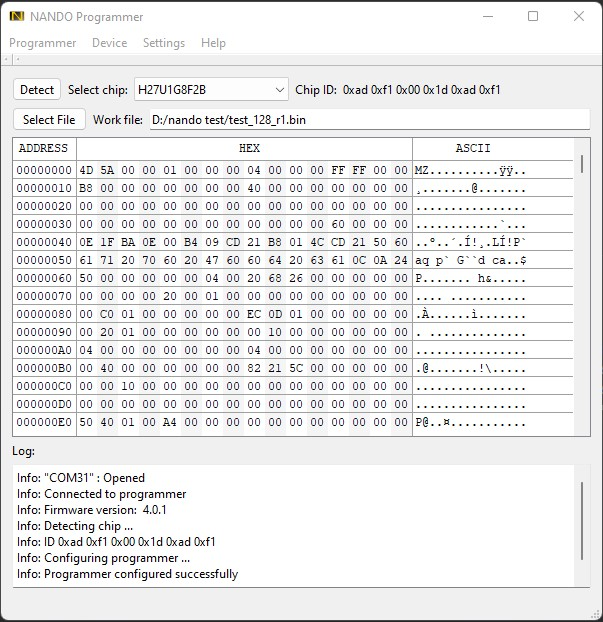
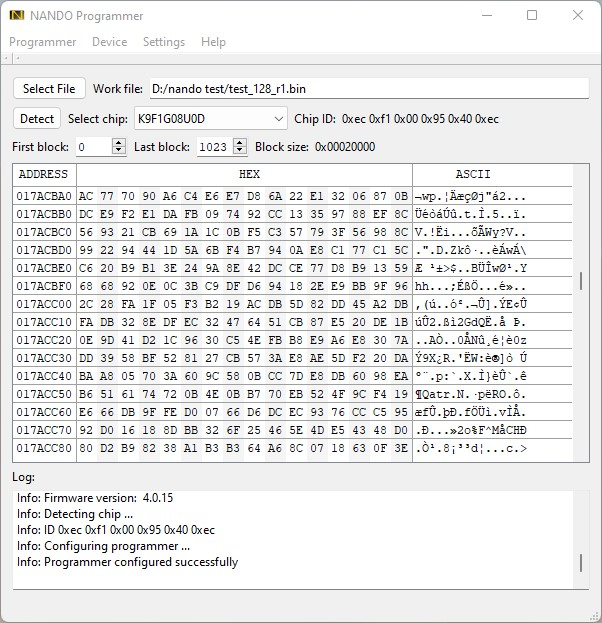
README: Update.

Changed region(s): [[0.0, 0.0, 1.0, 1.0]]

diff --git a/firmware/programmer/version.h b/firmware/programmer/version.h
@@ -8,6 +8,6 @@
 
 #define SW_VERSION_MAJOR 4
 #define SW_VERSION_MINOR 0
-#define SW_VERSION_BUILD 1
+#define SW_VERSION_BUILD 2
 
 #endif

diff --git a/README.md b/README.md
@@ -23,6 +23,7 @@ Application:
 - NAND read of bad blocks
 - NAND bad block skip option
 - NAND include spare area option
+- Configurable erase, write, read areas.
 - Open KiCad PCB & Schematic
 - Open source code
 - Read & Write LEDs indication
